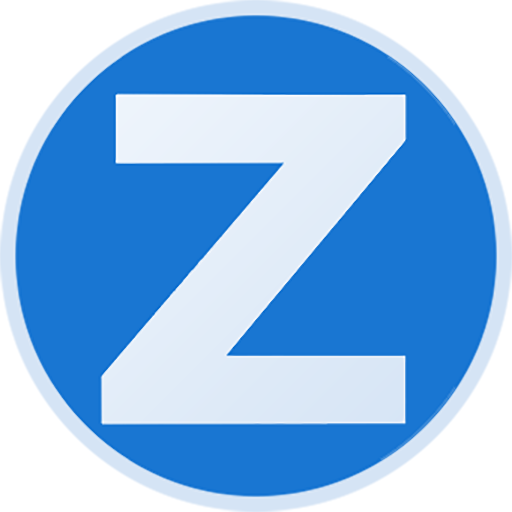
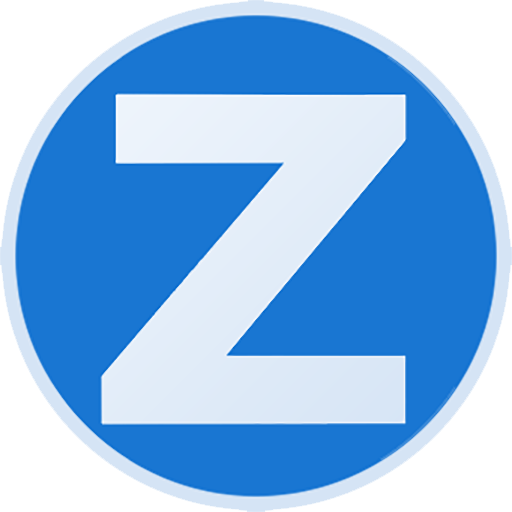
提交个人门户更新 2022-11-04 05:05:28

diff --git a/sw.js b/sw.js
@@ -1,1 +1,1 @@
-if(!self.define){let e,i={};const n=(n,r)=>(n=new URL(n+".js",r).href,i[n]||new Promise((i=>{if("document"in self){const e=document.createElement("script");e.src=n,e.onload=i,document.head.appendChild(e)}else e=n,importScripts(n),i()})).then((()=>{let e=i[n];if(!e)throw new Error(`Module ${n} didn’t register its module`);return e})));self.define=(r,s)=>{const c=e||("document"in self?document.currentScript.src:"")||location.href;if(i[c])return;let o={};const t=e=>n(e,c),d={module:{uri:c},exports:o,require:t};i[c]=Promise.all(r.map((e=>d[e]||t(e)))).then((e=>(s(...e),o)))}}define(["./workbox-3625d7b0"],(function(e){"use strict";self.skipWaiting(),e.clientsClaim(),e.precacheAndRoute([{url:"404.html",revision:"9742bcbb9d4c9dd26cb8a87c2080ba07"},{url:"icon-512.png",revision:"4fb8f5822d0fd174fc8aeb54e949c4bd"},{url:"index.016c4b7b.css",revision:null},{url:"index.html",revision:"1c6de06e4df5b0e10f3c192ec4d832dd"},{url:"main.a842b54c.js",revision:null},{url:"registerSW.js",revision:"402b66900e731ca748771b6fc5e7a068"},{url:"icon-512.png",revision:"4fb8f5822d0fd174fc8aeb54e949c4bd"},{url:"manifest.webmanifest",revision:"6c14839ee0078f8e2350d17388a2b4a6"}],{}),e.cleanupOutdatedCaches(),e.registerRoute(new e.NavigationRoute(e.createHandlerBoundToURL("404.html")))}));
+if(!self.define){let e,i={};const n=(n,r)=>(n=new URL(n+".js",r).href,i[n]||new Promise((i=>{if("document"in self){const e=document.createElement("script");e.src=n,e.onload=i,document.head.appendChild(e)}else e=n,importScripts(n),i()})).then((()=>{let e=i[n];if(!e)throw new Error(`Module ${n} didn’t register its module`);return e})));self.define=(r,s)=>{const c=e||("document"in self?document.currentScript.src:"")||location.href;if(i[c])return;let o={};const t=e=>n(e,c),l={module:{uri:c},exports:o,require:t};i[c]=Promise.all(r.map((e=>l[e]||t(e)))).then((e=>(s(...e),o)))}}define(["./workbox-3625d7b0"],(function(e){"use strict";self.skipWaiting(),e.clientsClaim(),e.precacheAndRoute([{url:"404.html",revision:"9742bcbb9d4c9dd26cb8a87c2080ba07"},{url:"icon-512.png",revision:"65f42ac434c2a7b631c198f251035ba0"},{url:"index.016c4b7b.css",revision:null},{url:"index.html",revision:"881a746ffb1066051ae2209799a70b5c"},{url:"main.a842b54c.js",revision:null},{url:"registerSW.js",revision:"402b66900e731ca748771b6fc5e7a068"},{url:"icon-512.png",revision:"65f42ac434c2a7b631c198f251035ba0"},{url:"manifest.webmanifest",revision:"6c14839ee0078f8e2350d17388a2b4a6"}],{}),e.cleanupOutdatedCaches(),e.registerRoute(new e.NavigationRoute(e.createHandlerBoundToURL("404.html")))}));

diff --git a/index.html b/index.html
@@ -6,7 +6,7 @@
   <meta charset="utf-8">
   <meta name="description" content="a startpage for your server and / or new tab page">
   <meta content="width=device-width, initial-scale=1.0, minimum-scale=1.0, maximum-scale=1.0, user-scalable=no" name="viewport" />
-  <link rel="shortcut icon" href="https://zning.me/favicon.ico" type="image/x-icon">
+  <link rel="shortcut icon" href="./icon-512.png" type="image/png">
   
   <script type="module" crossorigin src="./main.a842b54c.js"></script>
   <link rel="stylesheet" href="./index.016c4b7b.css">
